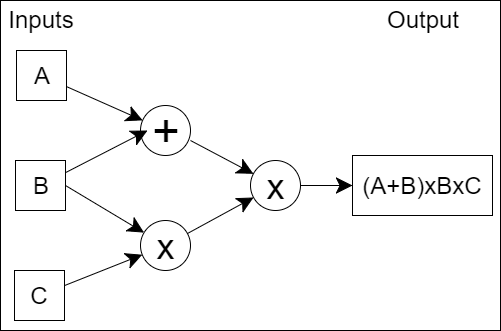
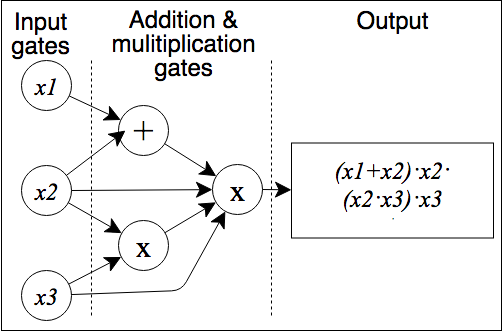
wip

diff --git a/src/cryptography/bulletproofs-and-mimblewimble/MainReport.md b/src/cryptography/bulletproofs-and-mimblewimble/MainReport.md
@@ -345,9 +345,11 @@ The communication can be reduced by running a second MPC protocol for the inner 
 
 #### Protocol 3 - Zero-Knowledge Proof for Arithmetic Circuits
 
-Bulletproofs present an efficient zero-knowledge argument for arbitrary arithmetic circuits with a proof size of $ 2 \cdot [ \log _2 (n)+13] $elements with $ n $ denoting the multiplicative complexity of the circuit. Committed values are also included as input wires to the arithmetic circuit, which is important otherwise the circuit would need to implement a commitment algorithm. 
+Bulletproofs present an efficient zero-knowledge argument for arbitrary Arithmetic Circuits<sup>[def][ac~]</sup> with a proof size of $ 2 \cdot [ \log _2 (n)+13] $ elements with $ n $ denoting the multiplicative complexity of the circuit. Committed values are also included as input wires to the arithmetic circuit, which is important otherwise the circuit would need to implement a commitment algorithm. 
 
-???
+The high level idea of the protocol is to convert the Hadamard-product relation along with the linear constraints into a single inner product relation.
+
+an arbitrary arithmetic circuit with $ n $ multiplication gates can be converted  into a  containing a Hadamard-product relation
 
 
 
@@ -707,6 +709,11 @@ Tsiounis Y. et al."
 "Dalek Cryptography - 
 Crate Bulletproofs"
 
+[[47]] Wikipedia: Arithmetic circuit complexity, https://en.wikipedia.org/wiki/Arithmetic_circuit_complexity, Date accessed: 2018-10-?.
+
+[47]: https://en.wikipedia.org/wiki/Arithmetic_circuit_complexity
+"Wikipedia: Arithmetic circuit complexity"
+
 [[50]] Elliptic Curve Cryptography: A gentle introduction, http://andrea.corbellini.name/2015/05/17/elliptic-curve-cryptography-a-gentle-introduction/, Date accessed: 2018-09-10.
 
 [50]: http://andrea.corbellini.name/2015/05/17/elliptic-curve-cryptography-a-gentle-introduction
@@ -725,14 +732,14 @@ Crate Bulletproofs"
 
 Definitions of terms presented here are high level and general in nature. Full mathematical definitions are available in the cited references. 
 
-- <u><i>Arithmetic Circuits</i></u>:<a name="ac"> </a>An arithmetic circuit over a field and variables $ (a_1, ..., a_n) $ is a directed acyclic graph whose vertices are called gates. Arithmetic circuits can alternatively be described as a list of multiplication gates with a collection of linear consistency equations relating the inputs and outputs of the gates. [[29]]
+- <u><i>Arithmetic Circuits</i></u>:<a name="ac"> </a>An arithmetic circuit $ C $ over a field $ F $ and variables $ (x_1, ..., x_n) $ is a directed acyclic graph whose vertices are called gates. Arithmetic circuits can alternatively be described as a list of addition and multiplication gates with a collection of linear consistency equations relating the inputs and outputs of the gates. The size of an arithmetic circuit is the number of gates in it, with the depth being the length of the longest directed path. *Upper bounding* the complexity of a polynomial $ f $ is to find any arithmetic circuit that can calculate $ f $, whereas *lower bounding* is to find the smallest arithmetic circuit that can calculate $ f $. An example of a simple arithmetic circuit with size six and depth two that calculates a polynomial is shown below. ([[29]], [[47]])
 
   <p align="center"><img src="sources/ArithmiticCircuit.PNG" width="300" /></p>
 
-[ac~]: #
-"An arithmetic circuit over a field 
-and variables (a1, ..., an) is a 
-directed acyclic graph ..."
+[ac~]: #ac
+"An arithmetic circuit C over a 
+field F and variables (x_1, ..., x_n) 
+is a directed acyclic graph ..."
 
 - <u><i>Argument of Knowledge System</i></u>:<a name="afs"> </a>Proof systems with computational soundness like Bulletproofs are sometimes called argument systems. The terms *proof* and *argument of knowledge* have exactly the same meaning and can be used interchangeably. [[29]]
 
